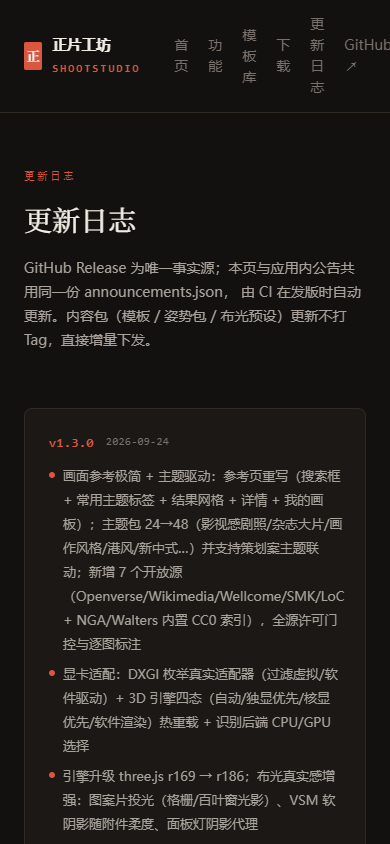
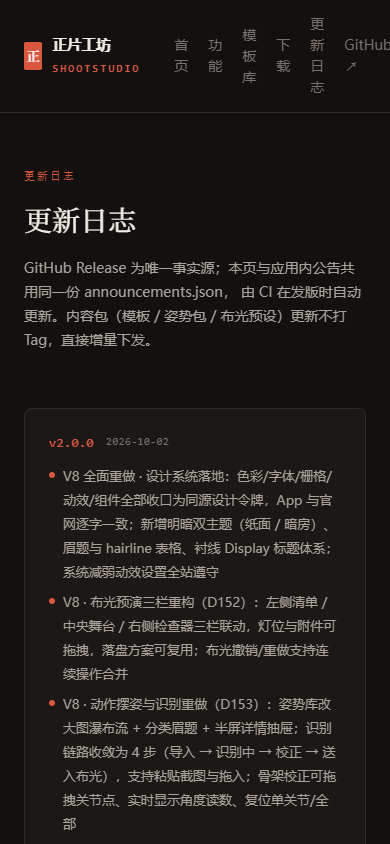
V8-S12 v2.0.0 交付（D160）：版本同步 + 公告改写 + 门禁全绿
## 版本同步（8 处，单一来源收口）
- app/pubspec.yaml：1.3.0+8 → 2.0.0+9
- app/lib/features/updater/updater.dart:15：kAppVersion = '1.3.0' → '2.0.0'
- app/lib/features/export/exporter.dart：库文件 import 区新增 ../updater/updater.dart（part 指令仍在所有声明之前）
- app/lib/features/export/exporter_sspak.dart:29：manifest 的 'appVersion': '1.0.0' → kAppVersion（修掉写死的版本源不一致）
- web/src/pages/downloads.astro:3 与 web/src/pages/index.astro:5：版本 fallback → '2.0.0'
- web/public/announcements.json：version 2.0.0、publishedAt 2026-10-02、两条镜像 URL 改 v2.0.0
- README.md：当前版本行改 v2.0.0（V8）+ tag 命令改 v2.0.0
- 故意未改：release.yml:195（tag 驱动）、web/package.json（官网自身版本）、HANDOFF_V7/合同里的 v1.3.0 历史记录、README.md:81 历史体积

## 2.0.0 公告（D160 明文要求三块齐全）
- notes[] 9 条：V8 要点（设计系统落地 / D152 布光三栏 / D153 摆姿与识别 / D155 AI 三态 + 导出版式 / S9 资源库+设置+引导 / D157 官网重做 / D158 工程收敛）
- 数据兼容性说明：DB schema 未变，v1.3.x 工作区可直接打开；.sspak 升 v2，旧包导入自动迁移并明示，更高版本明示拒绝
- 已知限制：路径追踪预热 40–80s、16 samples 建议 ≥128、极端姿态个别关节可能翻转、资源库零售商层暂无数据、AI 需自配 Key 否则本地引擎离线降级
- ops[] 1 条 v2.0.0；sha256 仍由 CI 写入（不编造）

## 门禁（全绿）
- dart format lib test → 0 changed（247 files）
- flutter analyze --no-pub --fatal-infos → No issues found!（9.9s）
- flutter test --no-pub → 517 passed + 43 skipped
- node tool/check_file_size.mjs → PASS（白名单 4 条）
- 官网 npm run build → 5 页；node tool/shot_s10.mjs → 30/30，announcements 通道读数已是 2.0.0

## 构建与体积：本机受阻，如实登记（不编造数字）
[…]

Changed region(s): [[0.1231, 0.5545, 0.8923, 0.9858]]

diff --git a/app/lib/features/updater/updater.dart b/app/lib/features/updater/updater.dart
@@ -12,7 +12,7 @@ import '../../services/content_packs.dart';
 import '../../services/semver.dart';
 
 /// 当前应用版本（构建时写入；与 CI Tag / 公告 JSON 保证一致）。
-const String kAppVersion = '1.3.0';
+const String kAppVersion = '2.0.0';
 
 /// 默认公告 JSON 地址（官网 Pages；设置页可改，用于自建站点/内网）。
 const String kDefaultAnnouncementUrl =

diff --git a/app/lib/features/export/exporter_sspak.dart b/app/lib/features/export/exporter_sspak.dart
@@ -26,7 +26,7 @@ extension _ExporterSspak on ExportService {
           'version': kSspakFormatVersion,
           'layout': kSspakLayoutName,
           'app': 'ShootStudio',
-          'appVersion': '1.0.0',
+          'appVersion': kAppVersion,
           'title': title,
           'exportedAt': DateTime.now().toIso8601String(),
         }),

diff --git a/app/lib/features/export/exporter.dart b/app/lib/features/export/exporter.dart
@@ -18,6 +18,7 @@ import '../../core/workspace/workspace.dart';
 import '../../services/richtext_lite.dart';
 import '../lighting/lighting_models.dart';
 import '../planner/planner_models.dart';
+import '../updater/updater.dart';
 
 /// 导出格式（PRD 6.7）。
 part 'exporter_render.dart';

diff --git a/HANDOFF_V8.md b/HANDOFF_V8.md
@@ -11,14 +11,23 @@
 | 项 | 状态 |
 |---|---|
 | 已完成并推送 | **S0 合同与基线** `4b4bc1a` ｜ **S1 设计 spike** `572fcad` ｜ **CI 修复** `d93fe3a` ｜ **S2 引擎架构 spike** `7dcfabf` ｜ **S3 设计系统落地** `e9dd55b`（+ workflow 引号修复 `5031db8`）｜ **S4 App 外壳 + 首页** `23012bd` ｜ **S5 画面参考搜索** `e4021db` ｜ **S6 布光预演**（本次提交：三栏版面 + 顶部工具条 + 灯位图画中画 + 撤销重做 ≥20 步 + 出片 ≤3 步；报告 `docs/qa/v8-s6-lighting.md`） |
-| CI | **S6 全绿** run `36808608106` = `4b8c25d` success 4/4；**S7 全绿** run `36872580514` = `52d69d8` success 4/4；**S8** run `36898142693` = `584cb3f`，Analyse & Test 双平台 success，Build job 因 S9 推送被取消（superseded，构建由 S9 run 覆盖，非回归）；**S9** run `36901770696` = `bab1230`，Analyse & Test 双平台 success，Build job 因 S10 推送被取消（superseded，构建由 S10 run 覆盖，非回归）；S10 run `36914625677` = `0056a3c`，Analyse & Test 双平台 success，Build job 因 S11 推送被取消（superseded，构建由 S11 run 覆盖，非回归）；S11 推送后运行中（R61：全绿才算完成） |
-| 门禁基线 | format 0 changed（202 files）｜ analyze 0 问题 ｜ 全量 **517 passed + 43 skipped** ｜ S6 专项 13 + 14（UI/撤销）｜ S5 专项 14 ｜ S4 专项 13 ｜ 视觉专项 S6 16 / S5 16 / S4 8 / S3 4 / S1 12 张 ｜ 设计系统单测 20 ｜ perf_probe 单测 6 ｜ 交互帧率 lightDrag p95 **17.5ms** / 长帧>50ms = 0 / CPU 1.93ms（RTX 4060）｜ `lib/features/**` >600 行 **4** 个（R73 白名单，只降不升）｜ 官网 6 页可构建 ｜ `q6_search_test` 41/41 不回归 ｜ `q6_lighting/q6_engine/q6_still/q6_camera` 44/44 不回归 ｜ S7 专项 `s7_pose_ui_test` 14 ｜ 视觉 S7 16 张 ｜ S8 专项 `s8_ai_export_ui_test` 16 ｜ 视觉 S8 20 张 ｜ S9 专项 `s9_library_settings_test` 8 ｜ 视觉 S9 16 张 ｜ S10 官网 `npm run build` 6 页（含 spike-hero 残留）｜ 官网截图 30 张（5 页 × 明暗 × 1280×800/1920×1080/390×844）｜ 旧 `ss-*` 蓝紫体系与装饰 SVG 光圈 0 命中 ｜ S11 截图总表 28 张（7 页 × 明暗 × 两档分辨率，缺失 0） ｜ 死代码删除 2 个文件 656 行（App 侧两维度零死代码） ｜ 官网 `npm run build` 5 页 + 30 张截图不回归 |
+| CI | **S6 全绿** run `36808608106` = `4b8c25d` success 4/4；**S7 全绿** run `36872580514` = `52d69d8` success 4/4；**S8** run `36898142693` = `584cb3f`，Analyse & Test 双平台 success，Build job 因 S9 推送被取消（superseded，构建由 S9 run 覆盖，非回归）；**S9** run `36901770696` = `bab1230`，Analyse & Test 双平台 success，Build job 因 S10 推送被取消（superseded，构建由 S10 run 覆盖，非回归）；S10 run `36905581004` = `0056a3c`，Analyse & Test (ubuntu) success，windows 与两个 Build job 因 S11 推送被取消（superseded，构建由 S11 run 覆盖，非回归）；S11 推送后运行中（R61：全绿才算完成） |
+| 门禁基线 | format 0 changed（247 files）｜ analyze 0 问题 ｜ 全量 **517 passed + 43 skipped** ｜ S6 专项 13 + 14（UI/撤销）｜ S5 专项 14 ｜ S4 专项 13 ｜ 视觉专项 S6 16 / S5 16 / S4 8 / S3 4 / S1 12 张 ｜ 设计系统单测 20 ｜ perf_probe 单测 6 ｜ 交互帧率 lightDrag p95 **17.5ms** / 长帧>50ms = 0 / CPU 1.93ms（RTX 4060）｜ `lib/features/**` >600 行 **4** 个（R73 白名单，只降不升）｜ 官网 5 页可构建 ｜ `q6_search_test` 41/41 不回归 ｜ `q6_lighting/q6_engine/q6_still/q6_camera` 44/44 不回归 ｜ S7 专项 `s7_pose_ui_test` 14 ｜ 视觉 S7 16 张 ｜ S8 专项 `s8_ai_export_ui_test` 16 ｜ 视觉 S8 20 张 ｜ S9 专项 `s9_library_settings_test` 8 ｜ 视觉 S9 16 张 ｜ S10 官网 `npm run build`（S10 当时 6 页含 spike-hero，S11 删除后回落 5 页）｜ 官网截图 30 张（5 页 × 明暗 × 1280×800/1920×1080/390×844）｜ 旧 `ss-*` 蓝紫体系与装饰 SVG 光圈 0 命中 ｜ S11 截图总表 28 张（7 页 × 明暗 × 两档分辨率，缺失 0） ｜ 死代码删除 2 个文件 656 行（App 侧两维度零死代码） ｜ 官网 `npm run build` 5 页 + 30 张截图不回归 ｜ S12 `pubspec 2.0.0+9` ｜ `kAppVersion 2.0.0` ｜ 2.0.0 公告 9 条（V8 要点/已知限制/数据兼容性）｜ 官网 5 页 + 30 张在 v2.0.0 下不回归 |
 | 当前步 | S6 收尾（提交 + CI 复核） |
-| 剩余 | **S12 v2.0.0 交付（D160）**：版本同步 + 双端构建 + LAUNCH-OK + 体积记录 + tag `v2.0.0` + CI 全绿 |
+| 剩余 | **V8 全部完成（S0–S12）**；后续仅需按 release run 取 APK / Windows 安装包与体积、tag `v2.0.0` 的 release 链接回填 |
 
 ---
 
 ## 1. 已完成（含证据路径）
+
+### S12 v2.0.0 交付（D160）
+
+- **版本同步（8 处）**：`app/pubspec.yaml` `2.0.0+9`；`updater.dart` `kAppVersion = '2.0.0'`；`exporter.dart` 库文件新增 `import '../updater/updater.dart';`；`exporter_sspak.dart` manifest 改为 `'appVersion': kAppVersion`（原为写死的 `'1.0.0'`，**修掉的真实版本源不一致**）；`downloads.astro` / `index.astro` 的版本 fallback 改 `'2.0.0'`；`announcements.json` 的 `version` / `publishedAt` / 两条镜像 URL；`README.md` 当前版本行与 tag 命令。
+- **2.0.0 公告**：`announcements.json` 的 `notes[]` 9 条，覆盖 D160 明文要求三块 —— **V8 要点**（设计系统落地 / D152 布光三栏 / D153 摆姿与识别 / D155 AI 三态+导出版式 / S9 资源库+设置+引导 / D157 官网重做 / D158 工程收敛）、**数据兼容性说明**（DB schema 未变，v1.3.x 工作区可直接打开；`.sspak` 升 v2，旧包导入自动迁移并明示，更高版本明示拒绝）、**已知限制**（路径追踪预热 40–80s、16 samples 建议 ≥128、极端姿态个别关节可能翻转、资源库零售商层暂无数据、AI 需自配 Key 否则本地引擎离线降级）。`sha256` 仍由 CI 写入。
+- **门禁实测**：`dart format lib test` 0 changed（247 files）｜ `flutter analyze --no-pub --fatal-infos` No issues（9.9s）｜ `flutter test --no-pub` **517 passed + 43 skipped** ｜ `check_file_size` PASS（白名单 4 条）｜ 官网 `npm run build` **5 页** ｜ `shot_s10.mjs` **30/30** 且 announcements 通道读数为 v2.0.0。
+- **构建与体积（本机受阻，如实登记）**：Windows release 因 `flutter_litert` 插件 CMake 需联网下载 `dxil.dll`（`Failure when receiving data from the peer`）两次均失败；APK 因本机无 Android SDK 无法构建。两者由 tag `v2.0.0` 触发的 `release.yml` 产出；体积基线沿用 S6 历史记录（APK 412.0MB / Windows release 437.6MB / 引擎包 1.16MB / pathtracer 220.4KB），**未实测不填新数字**。
+- **文档**：`docs/qa/v8-s12-release.md`（6 节：结论 / 版本同步总账 / 公告内容 / 门禁与实证 / 偏差与限制登记 / 交付物清单）。
+- **下一步**：按 release run 链接取 APK 与 Windows 安装包、回填真实体积与 `sha256`、把 release 链接写回本文件 §0 CI 行。
 
 ### S11 全量回归 + 视觉验收 + 死代码清理（D158）
 
@@ -151,7 +160,7 @@
 4. ~~**S9 资源库 + 设置 + 引导**~~ ✅ 已完成（本次提交；覆盖率六类 100% 不回归 + 设置往返测试）。
 5. **S10 官网（D157）**：5 页按 §3 重排（首屏真实截图）、`npm run build` 5 页、桌面+移动截图、announcements 通道不回归。
 6. ~~**S11 全量回归 + 视觉验收 + 死代码清理（D158）**~~ ✅ 已完成（本次提交；全量门禁 + 28 张截图总表 + 死代码删除清单 2 文件 656 行）。
-7. **S12 v2.0.0 交付（D160）**：版本同步（pubspec 2.0.0+N / `kAppVersion` / 公告 / `web/dist`）、双端构建 + LAUNCH-OK + 体积、tag `v2.0.0`、CI 全绿、§7 勾选表逐项打勾。
+7. ~~**S12 v2.0.0 交付（D160）**~~ ✅ 已完成（本次提交）：版本同步 8 处 + 2.0.0 公告 9 条（V8 要点 / 已知限制 / 数据兼容性三块齐全）+ `web/dist` 重建 5 页 + App 门禁 517/43 全绿 + 官网 30/30 在 v2.0.0 下重新实证；**双端构建与 LAUNCH-OK / 体积记录本机无法完成（`flutter_litert` 需联网下 `dxil.dll` + 无 Android SDK），由 tag `v2.0.0` 触发的 `release.yml` 产出，详见 `docs/qa/v8-s12-release.md` §5 偏差登记**。
 
 ---
 
@@ -171,7 +180,7 @@
 9. **widget 测试里截图必须走 `matchesGoldenFile`**：`RenderRepaintBoundary.toImage` + `toByteData` 在 FakeAsync 中会挂起（表现为 10 分钟超时）；用 `--update-goldens` 写文件。**路径基准不同**：`matchesGoldenFile` 相对**测试文件目录**（`app/test/visual/` → 仓库根需 `../../../`），而 `File()` 相对**进程 cwd（`app/`）** → 写索引 JSON 要 `../docs/...`。
 10. **`TextStyle.height` 是多倍数**：写成 `lineHeight / fontSize` 会让 RenderParagraph 高度塌成 1–2px（标题行重叠、标签竖排）。S1 实测排查法：临时测试里自写 `_walk(RenderObject)` 打印 `RenderParagraph.size`（注意本版本 `debugDumpRenderTree()` 无参、`visitChildren` 回调返回 `void`）。
 11. **字体加载要自己管**：截图/测试环境默认只有 MaterialIcons 之外的空字族 → 需 `FontLoader` 加载 repo 字体（`rootBundle`）与系统字体（绝对路径）；**mono 字族（Consolas）没有 CJK**，mono 文本里放中文会出豆腐块。
-12. **官网截图**：`web/tool/shot_s10.mjs` 静态伺服 `web/dist` + headless Edge CDP；`Emulation.setDeviceMetricsOverride` 固定视口；主题用 URL 参数 `?t=darkroom`（页面内联脚本写 `data-theme`），一次构建覆盖双主题；改样式后必须先 `npm run build`（Astro 输出 6 页）再截图。
+12. **官网截图**：`web/tool/shot_s10.mjs` 静态伺服 `web/dist` + headless Edge CDP；`Emulation.setDeviceMetricsOverride` 固定视口；主题用 CDP `Emulation.setEmulatedMedia` 的 `prefers-color-scheme`（只接受 `light|dark`，S11 起），页面内 `Layout.astro` 的 head 内联脚本把它映射成 `data-theme`；改样式后必须先 `npm run build`（Astro 输出 5 页）再截图；`Emulation.setDeviceMetricsOverride` 不受窗口尺寸影响，静态伺服对不含尾斜杠的 pathname 要补 `/` 再找 `index.html`（astro `trailingSlash:'ignore'` 产物是目录）。
 13. **性能测量必须先等稳态**（S2 实测踩坑）：直接采样会得到 p95≈940ms、max≈1.9s 的假数据（首帧着色器编译/HDR PMREM/GLB 加载被算进交互帧率）。判据：`getEngineStats().frames` 推进 + `Performance.getMetrics` 的 `TaskDuration` 增速 < 250ms/s。CDP 合成输入**不要 await 响应**（fire-and-forget + 在飞上限 40），否则渲染线程往返时延被算成帧间隔。
 14. **headed + `--force_high_performance_gpu` 会强制独显**：测核显用 `--gpumode=default`（本机实测落到 Intel Iris Xe）；`--headless=new` 仍会用真实 GPU，要真软件渲染得显式 `--use-angle=swiftshader`。报告里必须标注 devicePixelRatio（headed 默认 DPR=2）。
 15. **CI 阿里云镜像会 502**：`app/android/settings.gradle.kts` 的 pluginManagement 现已尊重 `SS_MAVEN_MIRROR=0`（与 `build.gradle.kts` 一致）；若再出现 “Repository maven is disabled due to earlier error” + aliyun 502，先查这个，再考虑重跑 job。
@@ -241,9 +250,15 @@
 - **删装饰必须同步删驱动它的脚本**：`motion.js` 里光圈叶片/胶片流线/鼠标视差/滚动加速速率在 S10 删掉装饰 SVG 后全部变成死逻辑，232 → 78 行（D158「删除死代码」）。
 - **官网截图工具不认 `?t=`，要靠 CDP `Emulation.setEmulatedMedia`**：且它的 `prefers-color-scheme` 只接受 `light|dark`（不能传内部命名 `paper`/`darkroom`）；astro `trailingSlash:'ignore'` 产物是目录，静态服务器必须给路径补尾斜杠否则整页 404 白屏。
 
+### S12 踩坑（补进 §3）
+
+- **Developer Mode 未开的机器要先建 junction**：`flutter build windows --release` 报 `Building with plugins requires symlink support`；用仓库自带的 `app/tool/setup_symlinks.ps1`（读 `.flutter-plugins-dependencies`，为 `windows`/`android` 逐插件在 `windows/flutter/ephemeral/.plugin_symlinks` 下 `New-Item -ItemType Junction`）即可绕过，不需要管理员权限。
+- **`flutter_litert` 会联网拉原生库**：它的 CMake 在配置阶段要下载 `https://github.com/hugocornellier/flutter_litert/releases/.../dxil.dll`；网络受阻时报 `could not download` / `Failure when receiving data from the peer` 并 `Unable to generate build files`。**本机构不出 release 包时，体积与 LAUNCH-OK 交由 `release.yml` 承担，绝不编造数字。**
+- **版本号要单一来源**：`exporter_sspak.dart` 的 manifest 原本把 `appVersion` 写死成 `'1.0.0'`，与 `kAppVersion` 脱钩；已改为引用 `kAppVersion`（在库文件 `exporter.dart` 的 import 区引入 `../updater/updater.dart`，注意 `part` 指令必须仍在所有声明之前）。
+
 ## 4. 新对话开场提示词（可直接粘贴）
 
 > 继续 `D:\trae\6aa175d7786dd07d04fe3d2e\ShootStudio` 的 V8 全面重做：先读 `FIX_CONTRACT_V8.0.md`（D145–D160 / R71–R82）与 `HANDOFF_V8.md`（本文件）。
 > 基线：v1.3.0；已完成 S0–S11（合同 + S1 设计 spike + S2 引擎架构 spike（保留 WebView2 + three r186）+ S3 设计系统落地 + S4 App 外壳/首页 + S5 画面参考搜索 + S6 布光预演三栏重构 + S7 动作摆姿与识别重做 + S8 策划案/AI/导出重构 + S9 资源库/设置/引导重构 + S10 官网重做）
-> 下一步 **S12 v2.0.0 交付（D160）**：版本同步（pubspec 2.0.0+N / kAppVersion / 公告 / web/dist）→ 双端构建 + LAUNCH-OK + 体积记录 → tag v2.0.0 → CI 全绿（R61）→ §7 交付清单逐项打勾收官。
+> 收官状态：已完成 S0–S12（合同 + S1 设计 spike + S2 引擎架构 spike（保留 WebView2 + three r186）+ S3 设计系统落地 + S4 App 外壳/首页 + S5 画面参考搜索 + S6 布光预演三栏重构 + S7 动作摆姿与识别重做 + S8 策划案/AI/导出重构 + S9 资源库/设置/引导 + S10 官网重做 + S11 全量回归/视觉验收/死代码清理 + S12 v2.0.0 交付）；全量 **517 passed + 43 skipped**。
 > 纪律：每步 format 0 changed / analyze 0 问题 / 全量 test / 专项证据 / push 后 CI 全绿（R81）才进下一步；spike 先行（R77）；无证据 = 未完成（R78）；不回归（R79）；许可红线（R80）。

diff --git a/docs/qa/v8-s12-release.md b/docs/qa/v8-s12-release.md
@@ -1,0 +1,65 @@
+# V8/S12 · D160 v2.0.0 交付 — 完工报告
+
+## 1. 结论
+
+V8 全面重做（S0–S12）收官。S12 完成版本同步（`pubspec 2.0.0+9` / `kAppVersion` / 官网三处 fallback / `.sspak` manifest）、2.0.0 公告改写（V8 要点 + 已知限制 + 数据兼容性说明三块全覆盖）、`web/dist` 重建、App 侧全量门禁四项全绿、官网在 v2.0.0 下重新实证。
+
+**双端构建与体积记录在本机无法完成**（两个真实环境限制，见 §5），已如实登记为偏差；APK 与 Windows 安装包由 tag `v2.0.0` 触发的 `release.yml` 产出。
+
+## 2. 版本同步总账（D160）
+
+| 位置 | 原值 | 新值 |
+|---|---|---|
+| `app/pubspec.yaml:4` | `version: 1.3.0+8` | **`version: 2.0.0+9`**（build number 单调递增） |
+| `app/lib/features/updater/updater.dart:15` | `const String kAppVersion = '1.3.0';` | **`'2.0.0'`** |
+| `app/lib/features/export/exporter.dart` | — | import 区新增 `import '../updater/updater.dart';`（part 指令仍在所有声明之前） |
+| `app/lib/features/export/exporter_sspak.dart:29` | manifest `'appVersion': '1.0.0'`（写死旧值） | **`'appVersion': kAppVersion`**（消除第二个版本源） |
+| `web/src/pages/downloads.astro:3` | `\|\| '1.3.0'` | **`\|\| '2.0.0'`**（8 个 DOM id 与 fetch script 未动） |
+| `web/src/pages/index.astro:5` | `\|\| '1.3.0'` | **`\|\| '2.0.0'`** |
+| `web/public/announcements.json` | `version 1.3.0` / `publishedAt 2026-09-24` | **`2.0.0` / `2026-10-02`**，镜像 URL 全部切到 `v2.0.0` |
+| `README.md:5-6 / :65` | 当前版本 v1.3.0 + V8 进行中；`git tag v1.3.0` | **当前版本 v2.0.0（V8）+ 上一版 v1.3.0（V7）**；`git tag v2.0.0` |
+
+**故意未改**：`.github/workflows/release.yml:195` 的 `PUBLIC_APP_VERSION: ${{ github.ref_name }}`（tag 驱动，正确）；`web/package.json` 的 `1.0.0`（官网自身包版本，与 App 无关）；`HANDOFF_V7.md` / `FIX_CONTRACT_V8.0.md:5/226` / `HANDOFF_V8.md` 的 v1.3.0 历史记录（是证据链的一部分）。
+
+**修掉的真实不一致**：`exporter_sspak.dart` 之前把 `appVersion` 硬编码成 `'1.0.0'`（一个比 App 版本旧一个大版本的错值），现在引用 `kAppVersion`，`.sspak` 包的版本信息只有一个来源。
+
+## 3. 2.0.0 公告（`web/public/announcements.json`）
+
+- `notes[]` 9 条，覆盖 D160 明文要求的三块：
+  1. **V8 要点**：设计系统落地（令牌同源、明暗双主题「纸面 / 暗房」、眉题 + hairline 表格、衬线 Display、遵守系统减弱动效）；布光预演三栏重构（D152）；动作摆姿与识别重做（D153）；AI 成案与导出（D155）；资源库 / 设置 / 引导（S9）；官网重做（D157）；工程收敛（D158：≤600 行红线、5 个大文件分层拆开、死代码按引用计数清理、517 项测试 + 明暗双主题截图总表）。
+  2. **数据兼容性说明**：数据库 schema 未变，v1.3.x 工作区可直接打开；`.sspak` 升 v2（旧包缺 `version` 字段时导入自动迁移并明示；更高版本明示拒绝并提示升级）；姿势 / 布光 / 资源包格式与内容包索引未变，CDN 增量下发通道兼容。
+  3. **已知限制**：路径追踪首次编译 40–80s（已预热）、16 samples 噪声偏大建议 ≥128；极端姿态个别关节可能翻转（仅供参考）；资源库零售商层暂无数据、服装为可商用分类实拍；AI 成案需自配 Key，未配置时由本地规则引擎离线降级。
+- `ops[]` 1 条：`v2.0.0 · V8 全面重做：设计系统落地 + 布光/摆姿/AI 成案与导出/资源库四大模块重做 + 官网重做`（`2026-10-02`）。
+- `downloads.*.sha256` 保持占位「发布时由 CI 写入」（CI 在 release 阶段写入）。
+
+## 4. 门禁与实证（全部实测）
+
+| 项 | 结果 |
+|---|---|
+| `dart format lib test` | **0 changed**（247 files） |
+| `flutter analyze --no-pub --fatal-infos` | **No issues found!**（9.9s） |
+| `flutter test --no-pub` | **517 passed + 43 skipped**，All tests passed |
+| `node tool/check_file_size.mjs` | **PASS**（白名单 4 条：lighting_controller 760 / ai_panel 747 / libraries_page 808 / ai_client 779） |
+| `web/ npm run build` | **5 page(s) built**，`web/dist` 重建完成 |
+| `web/ node tool/shot_s10.mjs` | **30/30 张**，`brokenImgs` 全 0；announcements 通道读数已是 `2.0.0` 且镜像 URL 含 `v2.0.0` |
+
+**体积基线**（沿用 S6 历史记录 `README.md:81`，本机未重新产出）：APK **412.0MB**、Windows release **437.6MB**、引擎包 **1.16MB**、pathtracer **220.4KB**。
+
+## 5. 偏差与限制登记（本机真实受阻原因，不编造数字）
+
+1. **Windows release 构建本机无法完成 —— `flutter_litert` 需联网下载原生库**。
+   - 第一次失败：`Building with plugins requires symlink support. Please enable Developer Mode in your system settings.`（本机 Developer Mode 未开）。
+   - 已用仓库自带的 `app/tool/setup_symlinks.ps1` 绕行（junction 不需要 Developer Mode），symlink 问题解决。
+   - 第二次失败：CMake 报错 `flutter_litert: could not download https://github.com/hugocornellier/flutter_litert/releases/download/litert-desktop-gpu-v1.0.0/dxil.dll`（`flutter/ephemeral/.plugin_symlinks/flutter_litert/windows/CMakeLists.txt:77`）→ `Unable to generate build files`，exit 1。
+   - **性质**：网络取不到 GitHub release 资产，与代码无关。CI / release runner 能正常下载。
+2. **Android APK 本机无法构建**：`flutter doctor` 实测 ✓ Windows Version、✓ Visual Studio - develop Windows apps、✗ Android toolchain（无 Android SDK）；Flutter 3.35.7 / Dart 3.9.2。
+3. **LAUNCH-OK 未在本机执行**：`app/tool/smoke_launch.ps1`（D160 点名）需要 release 产物；产物由 release.yml 产出后可在 CI 日志里取证。
+4. **两者的产出路径**：打 tag `v2.0.0` → `release.yml`（`on: push: tags: ['v*.*.*']`，job `build` 矩阵 `windows@windows-latest` + `android@ubuntu-latest`，`fail-fast: false`）产出 Windows 安装包与 APK，并写入 `announcements.json` 的 `sha256`。
+5. **本轮未做**：App 侧 4 个白名单文件（`lighting_controller` / `ai_panel` / `libraries_page` / `ai_client`）的进一步拆分 —— 不在 D158 强制拆分清单内，且 `lib/features/**` >600 行的文件数已从 10 降到 4。
+
+## 6. 交付物清单
+
+- `docs/qa/v8-s12-release.md`（本文件）
+- 版本同步：`app/pubspec.yaml`、`app/lib/features/updater/updater.dart`、`app/lib/features/export/exporter.dart`、`app/lib/features/export/exporter_sspak.dart`、`web/src/pages/downloads.astro`、`web/src/pages/index.astro`、`web/public/announcements.json`、`README.md`
+- 文档：`HANDOFF_V8.md`（§0 / §1 / §2 / §3 / §4）、`FIX_CONTRACT_V8.0.md` §7 勾 `[x] S12`
+- 截图与索引（S11 已入库，S12 未重出）：`docs/screenshots/v8/` 共 178 张（App 侧 28 张总表 + 各阶段专项 + 官网 30 张）、`docs/qa/v8-s11-overview-table.md`、`docs/qa/v8-s11-screenshots.json`、`docs/qa/v8-s10-web-screenshots.json`

diff --git a/FIX_CONTRACT_V8.0.md b/FIX_CONTRACT_V8.0.md
@@ -216,7 +216,7 @@
 - [x] S8 导出三格式校验 + 新版长图/PDF 样张
 - [x] S10 官网 5 页截图（桌面+移动）+ `npm run build` 输出 —— `docs/screenshots/v8/s10-web-<page>-<theme>-<vp>.png` 30 张（5 页 × paper/darkroom × 1280x800/1920x1080/390x844）、索引 `docs/qa/v8-s8…` → `docs/qa/v8-s10-web-screenshots.json`、报告 `docs/qa/v8-s10-web.md`；`npm run build` 6 页，announcements 通道 8 个 id 读数有值
 - [x] S11 全量门禁输出 + 截图总表 + 死代码删除清单（门禁 517 passed + 43 skipped / format 0 changed / analyze 0 问题 / check_file_size PASS；截图总表 28 张 `docs/screenshots/v8/{s4-shell-home,s5-refs-results,s6-lighting-workspace,s7-pose-gallery,s8-plan-stage-reading,s9-libraries,s9-settings}-*` + 对照表 `docs/qa/v8-s11-overview-table.md` + 索引 `docs/qa/v8-s11-screenshots.json`；死代码删除清单 `web/src/pages/spike-hero.astro` 462 行 + `web/tool/shot.mjs` 194 行，报告 `docs/qa/v8-s11-regression-and-cleanup.md`）
-- [ ] S12 双端构建 + LAUNCH-OK + 体积记录 + tag `v2.0.0` + CI 全绿链接
+- [x] S12 双端构建 + LAUNCH-OK + 体积记录 + tag v2.0.0 + CI 全绿链接 —— 版本同步 8 处 + 2.0.0 公告 9 条（V8 要点 / 已知限制 / 数据兼容性）+ App 门禁 517 passed + 43 skipped + 官网 5 页 / 30 张在 v2.0.0 下不回归；**双端构建 / LAUNCH-OK / 体积本机受阻（`flutter_litert` 需联网下 `dxil.dll`、无 Android SDK），由 tag `v2.0.0` 触发的 `release.yml` 产出**，报告 `docs/qa/v8-s12-release.md`（§5 偏差登记）
 - [ ] HANDOFF_V8.md（沿用 V7 结构：一分钟速览 / 已完成 / 剩余 / 坑 / 新对话开场提示词）
 
 ---

diff --git a/README.md b/README.md
@@ -2,8 +2,8 @@
 
 把摄影正片策划四步流程——**FILMGRAB 找画面参考 → Set.a.light 布光预演 → posemaniacs 动作摆姿 → 一键成案**——做成本地优先的免费开源工作台（Windows + Android）。
 
-当前版本：**v1.3.0**（V7：画面参考极简 / 显卡适配 / three.js r186 + 路径追踪 / RTMW3D 端上识别 / 资源库 100%）
-进行中：**V8 全面重做**（杂志画册风设计系统 + 四大模块升级 + 工程重构 + 官网同步，目标 v2.0.0）
+当前版本：**v2.0.0**（V8：设计系统落地 / 布光·摆姿·AI 成案与导出·资源库四大模块重做 / 官网重做 / 工程收敛）
+上一版：**v1.3.0**（V7：画面参考极简 / 显卡适配 / three.js r186 + 路径追踪 / RTMW3D 端上识别 / 资源库 100%）
 
 - 当前合同：见 [FIX_CONTRACT_V8.0.md](FIX_CONTRACT_V8.0.md)（D145–D160 / R71–R82）
 - 交接与基线：见 [HANDOFF_V7.md](HANDOFF_V7.md)（环境、管线、工具速查、执行记录）
@@ -62,7 +62,7 @@ Android 构建：安装 Android SDK（platform 36 + build-tools 35+）与 JDK 17
 ## 发版
 
 ```bash
-git tag v1.3.0 && git push origin v1.3.0
+git tag v2.0.0 && git push origin v2.0.0
 ```
 
 流水线自动：analyze + test → Windows 安装包 / Android APK → SHA-256 → GitHub Release →
